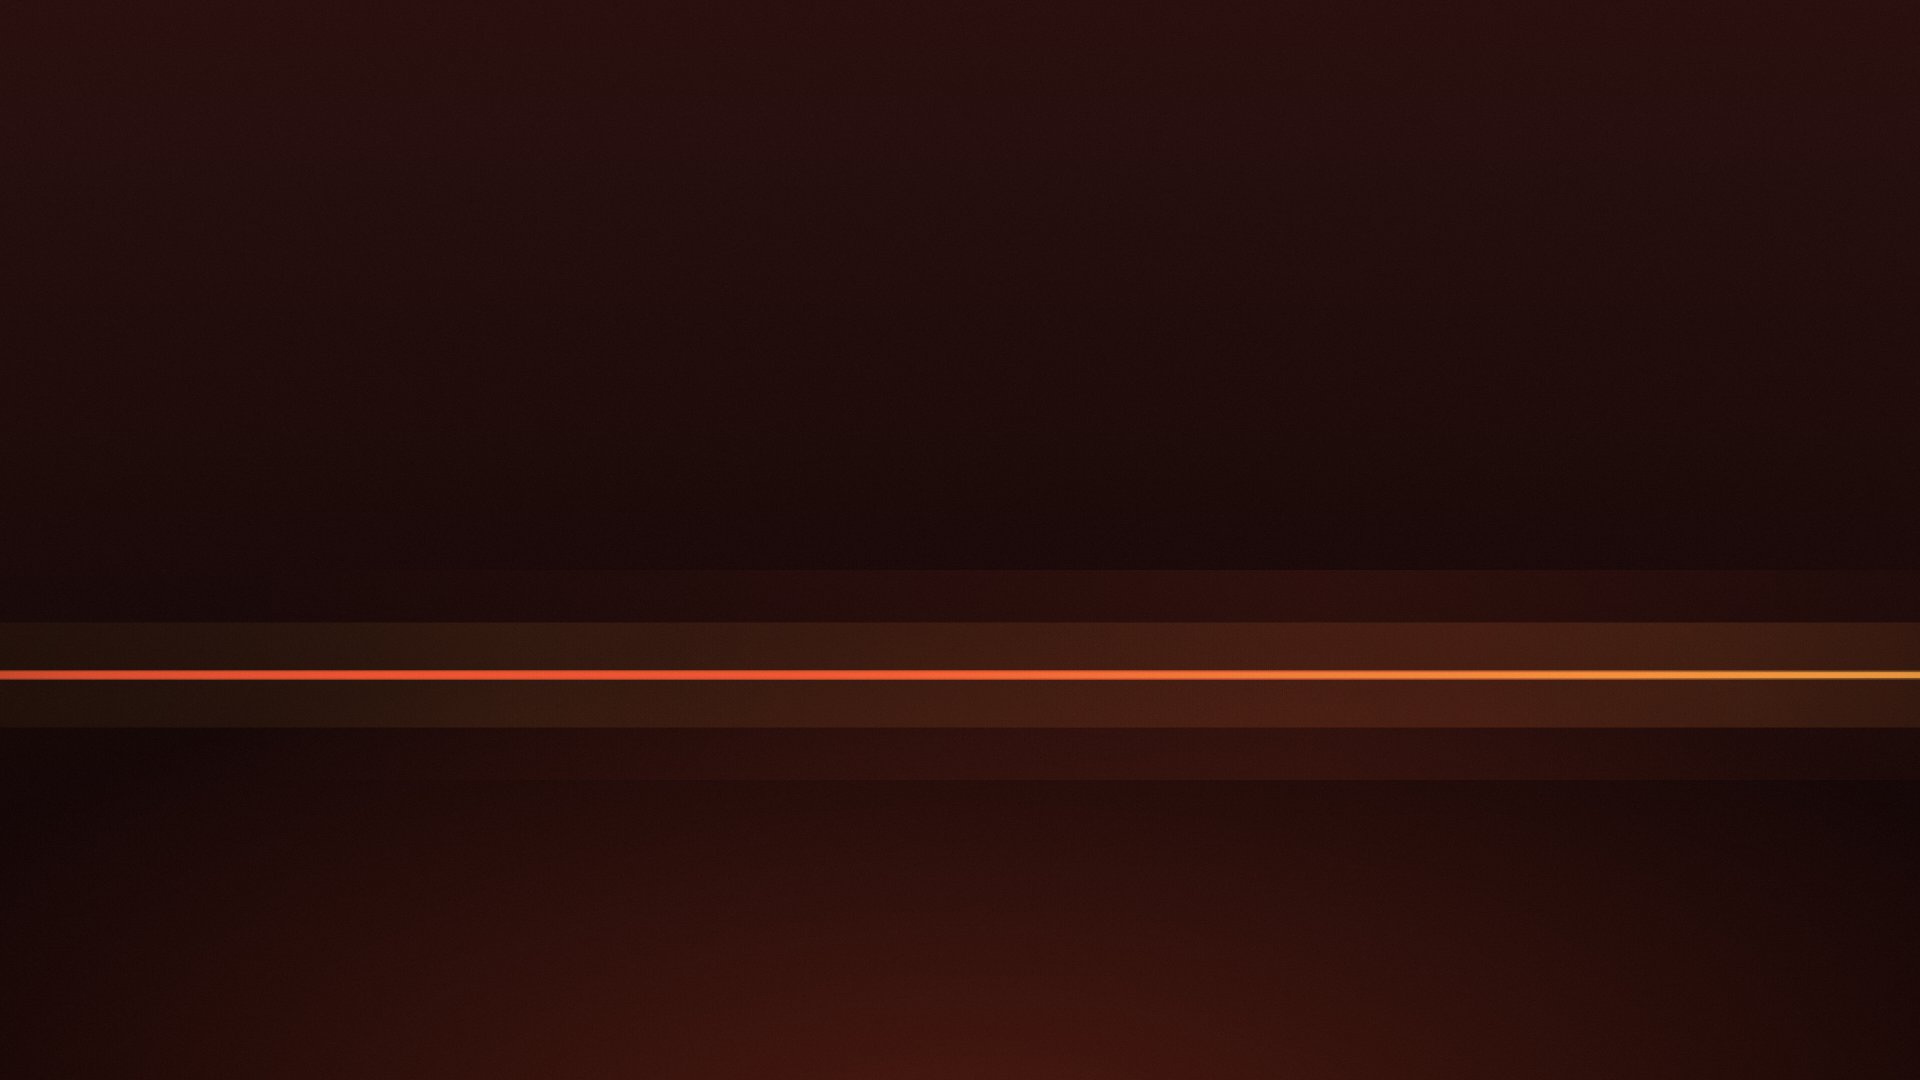
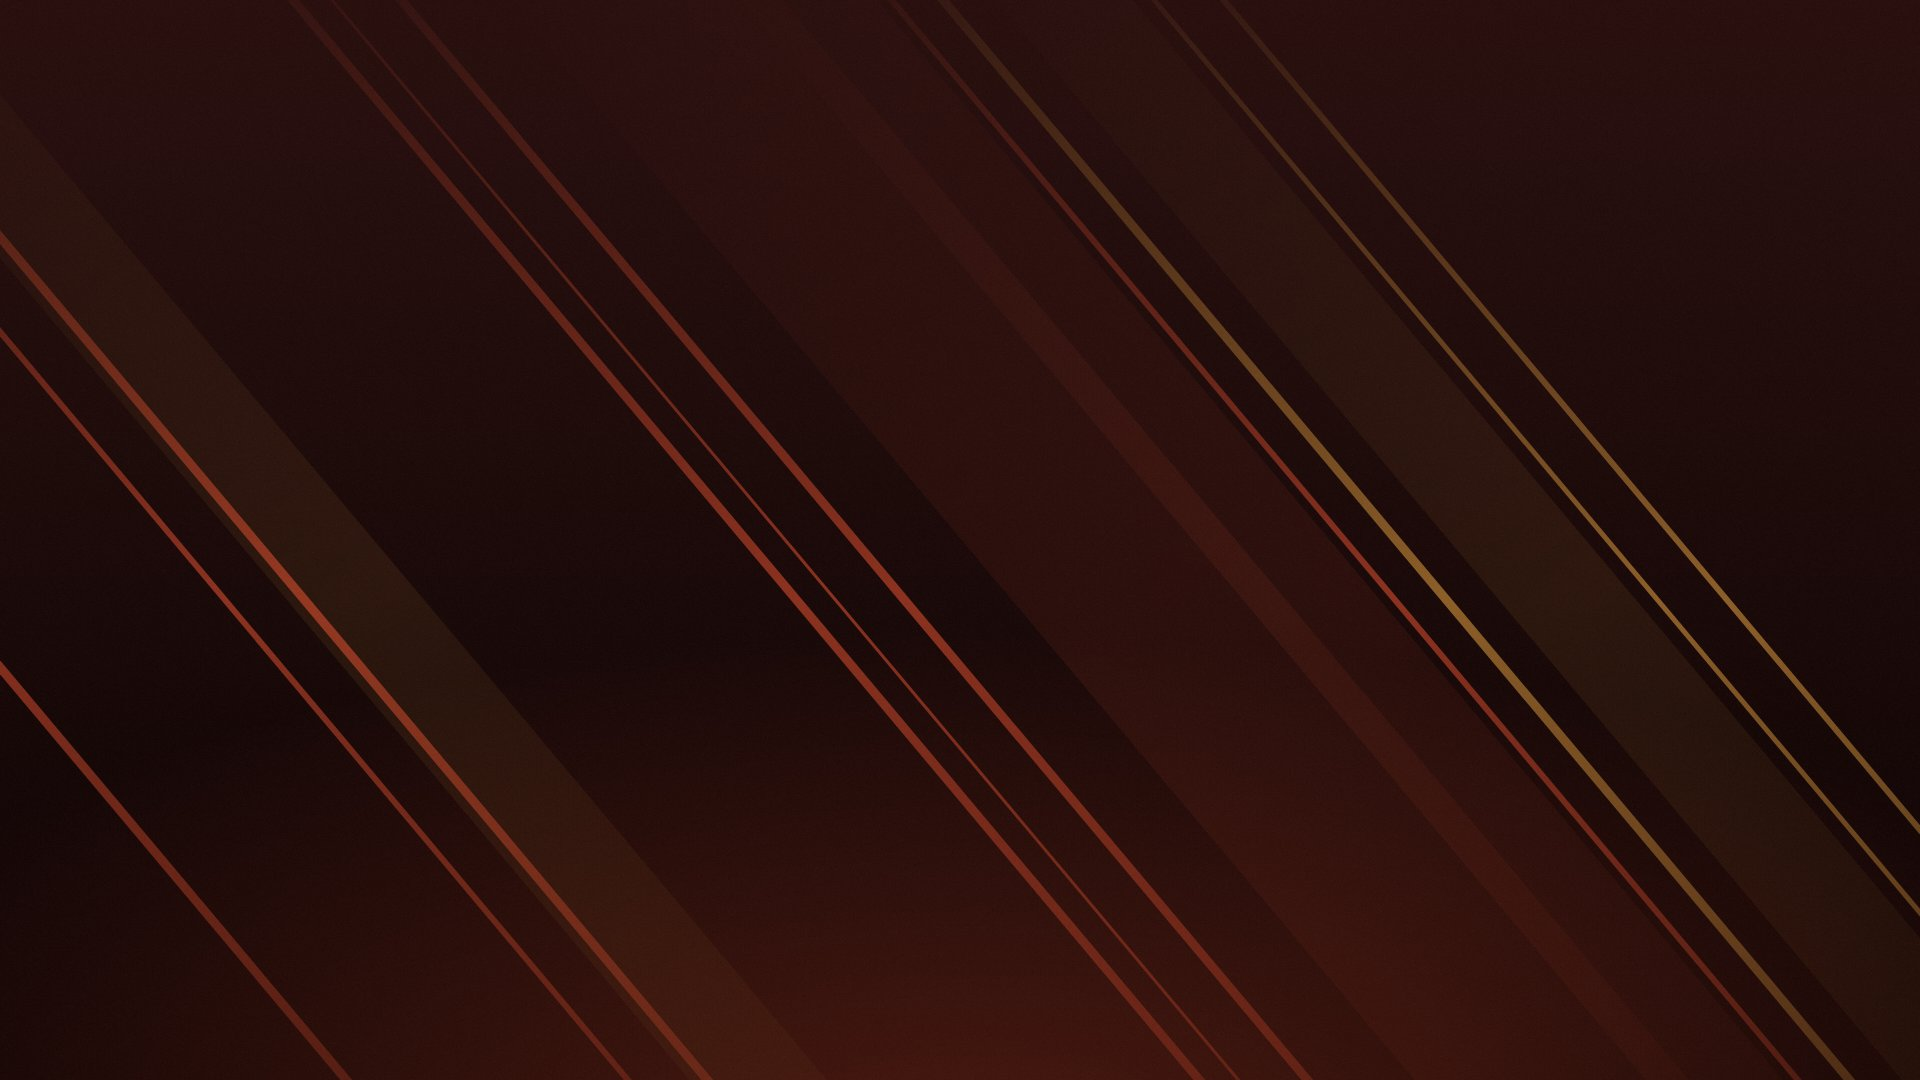
Thème: fonds sans barres horizontales (switch, gb, gbc, gba, psp, nds, gamegear, atari2600)
Claude-Session: https://claude.ai/code/session_01GkHid2SaMV1axiG6zNaZv2

diff --git a/tools/theme/gen_assets.py b/tools/theme/gen_assets.py
@@ -23,24 +23,24 @@ SYSTEMS = {
     "psx": ("PLAYSTATION", "SONY · 1994", -28, "PS"),
     "ps2": ("PLAYSTATION 2", "SONY · 2000", -12, "PS2"),
     "ps3": ("PLAYSTATION 3", "SONY · 2006", 0, "PS3"),
-    "psp": ("PSP", "SONY · 2004", 72, "PSP"),
+    "psp": ("PSP", "SONY · 2004", -48, "PSP"),
     "nes": ("NES", "NINTENDO · 1983", -35, "NES"),
     "snes": ("SUPER NINTENDO", "NINTENDO · 1990", -18, "SNES"),
-    "gb": ("GAME BOY", "NINTENDO · 1989", 90, "GB"),
-    "gbc": ("GAME BOY COLOR", "NINTENDO · 1998", 84, "GBC"),
-    "gba": ("GAME BOY ADVANCE", "NINTENDO · 2001", 76, "GBA"),
+    "gb": ("GAME BOY", "NINTENDO · 1989", -40, "GB"),
+    "gbc": ("GAME BOY COLOR", "NINTENDO · 1998", -33, "GBC"),
+    "gba": ("GAME BOY ADVANCE", "NINTENDO · 2001", -27, "GBA"),
     "mastersystem": ("MASTER SYSTEM", "SEGA · 1985", -45, "SMS"),
     "megadrive": ("MEGA DRIVE", "SEGA · 1988", -8, "MD"),
-    "gamegear": ("GAME GEAR", "SEGA · 1990", 60, "GG"),
+    "gamegear": ("GAME GEAR", "SEGA · 1990", 38, "GG"),
     "dreamcast": ("DREAMCAST", "SEGA · 1998", 15, "DC"),
     "n64": ("NINTENDO 64", "NINTENDO · 1996", -22, "64"),
     "gc": ("GAMECUBE", "NINTENDO · 2001", 30, "GC"),
     "wii": ("WII", "NINTENDO · 2006", 0, "WII"),
     "wiiu": ("WII U", "NINTENDO · 2012", -4, "WII U"),
-    "switch": ("SWITCH", "NINTENDO · 2017", -90, "NS"),
-    "nds": ("NINTENDO DS", "NINTENDO · 2004", 66, "DS"),
+    "switch": ("SWITCH", "NINTENDO · 2017", -24, "NS"),
+    "nds": ("NINTENDO DS", "NINTENDO · 2004", 24, "DS"),
     "pcengine": ("PC ENGINE", "NEC · 1987", -55, "PCE"),
-    "atari2600": ("ATARI 2600", "ATARI · 1977", -70, "2600"),
+    "atari2600": ("ATARI 2600", "ATARI · 1977", -50, "2600"),
     "arcade": ("ARCADE", "VARIOUS · 1978", -14, "ARCADE"),
     "xbox": ("XBOX", "MICROSOFT · 2001", 20, "XBOX"),
     "xbox360": ("XBOX 360", "MICROSOFT · 2005", 12, "360"),
